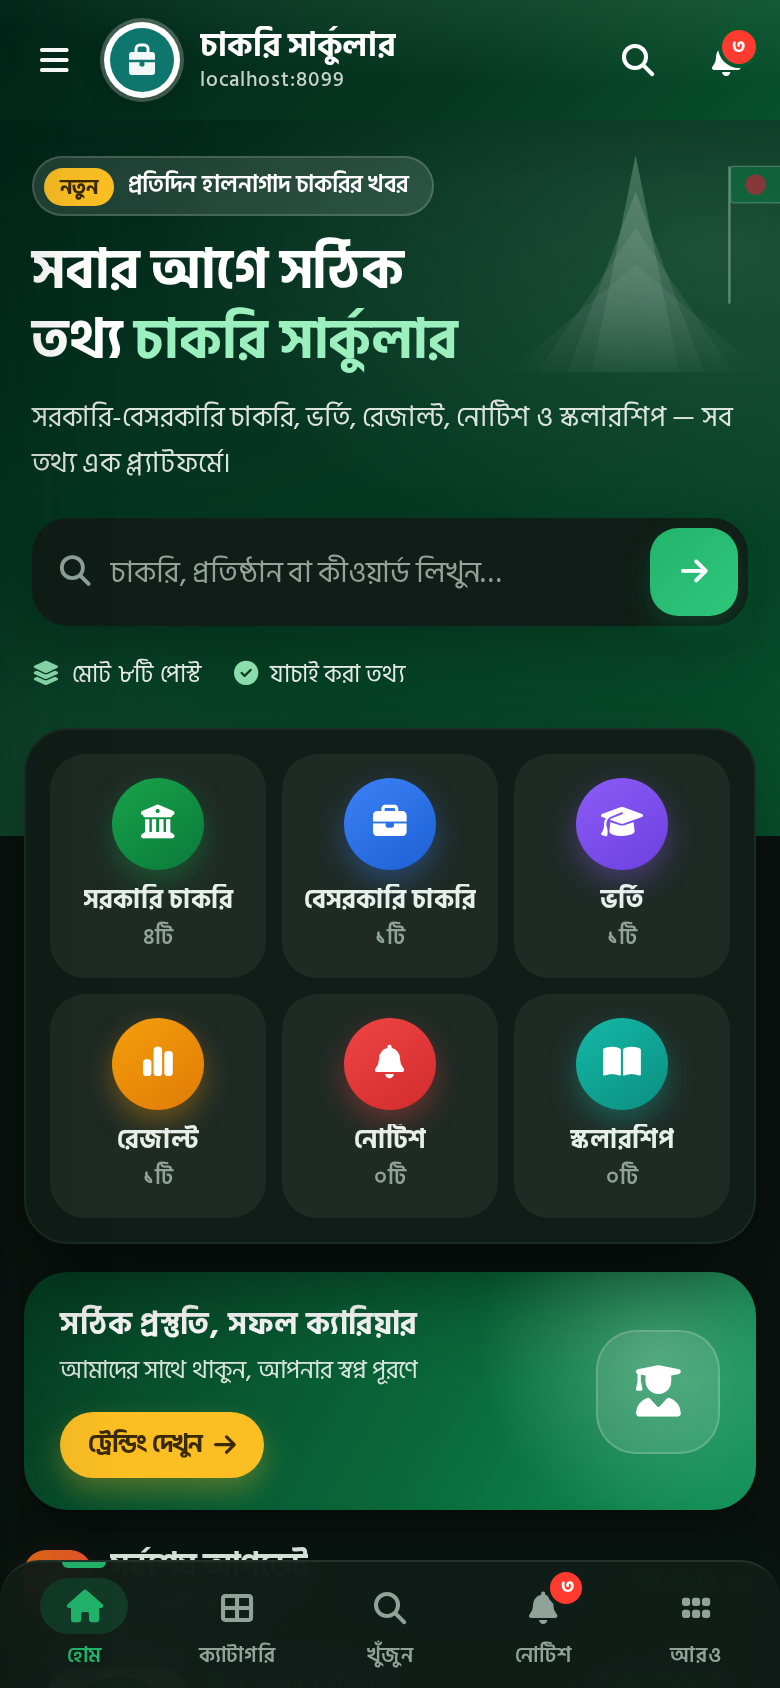
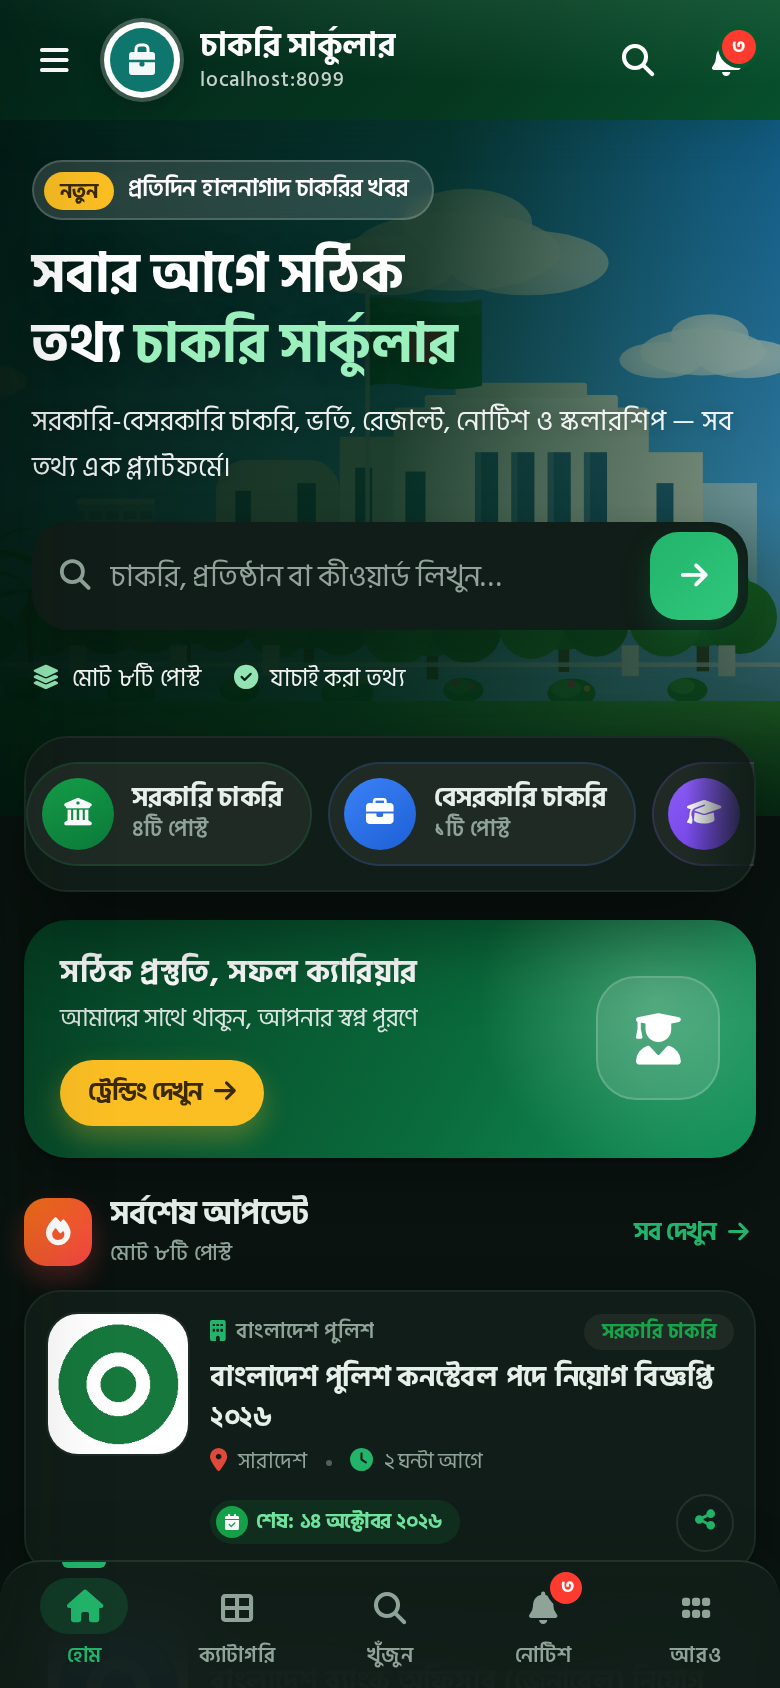
Home: inline SVG hero scene and single-row scrollable categories
Claude-Session: https://claude.ai/code/session_01XkHeWGdGZ5LUqB17QLPmpY

diff --git a/cakricircular/app/pages/home.php b/cakricircular/app/pages/home.php
@@ -33,7 +33,7 @@ if ($page === 1) {
             $catCounts[(int)$cc['cat_id']] = (int)$cc['n'];
     } catch (Throwable $e) {}
 }
-$homeCats = array_slice(categories(), 0, 6);
+$homeCats = categories();
 
 css_once('banner', <<<CSS
 /* ব্যানার — ৮৫৬×২৯২ অনুপাত (২.৯৩:১) */
@@ -55,20 +55,22 @@ css_once('banner', <<<CSS
 CSS);
 
 css_once('home', <<<CSS
-/* ===== হোম হিরো (হেডারের সবুজ রঙ নিচে নেমে আসে) ===== */
-.hh{position:relative;margin:-16px -16px 0;padding:22px 18px 74px;background:var(--hero-grad);color:#fff;overflow:hidden;isolation:isolate}
-.hh::before{content:"";position:absolute;inset:0;z-index:-1;opacity:.55;
-  background:radial-gradient(420px 220px at 92% 18%,rgba(160,240,190,.28),transparent 70%),
-             radial-gradient(300px 200px at -5% 100%,rgba(255,255,255,.10),transparent 70%)}
-.hh-art{position:absolute;right:-14px;top:6px;width:min(44%,220px);z-index:-1;opacity:.5;pointer-events:none}
+/* ===== হোম হিরো — পেছনে ইনলাইন SVG দৃশ্য (আলাদা ছবি লোড হয় না) ===== */
+.hh{position:relative;margin:-16px -16px 0;padding:24px 18px 64px;background:#06592f;color:#fff;overflow:hidden;isolation:isolate}
+.hh-scene{position:absolute;inset:0;width:100%;height:100%;z-index:-2;display:block}
+.hh::before{content:"";position:absolute;inset:0;z-index:-1;
+  background:linear-gradient(100deg,rgba(3,48,26,.94) 0%,rgba(4,64,35,.84) 48%,rgba(6,89,47,.42) 78%,rgba(6,89,47,.18) 100%),
+             linear-gradient(0deg,rgba(3,48,26,.85) 0%,rgba(3,48,26,0) 45%)}
+html[data-theme="dark"] .hh::before{background:linear-gradient(100deg,rgba(2,24,14,.96) 0%,rgba(3,40,22,.88) 50%,rgba(3,50,28,.55) 80%,rgba(3,50,28,.35) 100%),
+             linear-gradient(0deg,rgba(2,24,14,.9) 0%,rgba(2,24,14,0) 45%)}
 .hh-badge{display:inline-flex;align-items:center;gap:7px;padding:4px 12px 4px 5px;border-radius:999px;font-size:.74rem;font-weight:600;
-  background:rgba(255,255,255,.12);border:1px solid rgba(255,255,255,.16);margin-bottom:10px}
+  background:rgba(255,255,255,.14);border:1px solid rgba(255,255,255,.18);margin-bottom:10px;backdrop-filter:blur(4px)}
 .hh-badge b{background:#fbbf24;color:#3b2a00;border-radius:999px;padding:0 8px;font-size:.66rem;line-height:1.8}
-.hh h1{font-size:1.72rem;line-height:1.28;margin:0 0 8px;font-weight:700;letter-spacing:-.6px;max-width:15em;text-wrap:balance}
+.hh h1{font-size:1.72rem;line-height:1.28;margin:0 0 8px;font-weight:700;letter-spacing:-.6px;max-width:15em;text-wrap:balance;text-shadow:0 2px 14px rgba(0,0,0,.25)}
 .hh h1 span{color:#9bf0bd}
-.hh p{margin:0 0 16px;font-size:.88rem;opacity:.86;max-width:28em;line-height:1.65}
-.hh-search{position:relative;display:flex;align-items:center;background:var(--card);border-radius:18px;padding:5px 5px 5px 14px;
-  box-shadow:0 14px 30px rgba(0,0,0,.18);max-width:620px}
+.hh p{margin:0 0 16px;font-size:.88rem;opacity:.92;max-width:28em;line-height:1.65;text-shadow:0 1px 8px rgba(0,0,0,.25)}
+.hh-search{position:relative;display:flex;align-items:center;background:#fff;border-radius:18px;padding:5px 5px 5px 14px;
+  box-shadow:0 14px 30px rgba(0,0,0,.22);max-width:620px}
 html[data-theme="dark"] .hh-search{background:var(--card)}
 .hh-search i.mg{color:var(--muted);font-size:.95rem}
 .hh-search input{flex:1;min-width:0;border:0;background:none;height:44px;padding:0 10px;font:inherit;font-size:.94rem;color:var(--ink)}
@@ -77,19 +79,44 @@ html[data-theme="dark"] .hh-search{background:var(--card)}
 .hh-search button{width:44px;height:44px;border:0;border-radius:14px;flex:none;color:#fff;font-size:.95rem;
   background:linear-gradient(135deg,var(--brand),var(--brand-2));box-shadow:0 6px 14px rgba(10,125,69,.3)}
 .hh-search button:active{transform:scale(.94)}
-.hh-stats{display:flex;gap:16px;margin-top:14px;font-size:.76rem;opacity:.9;flex-wrap:wrap}
+.hh-stats{display:flex;gap:16px;margin-top:14px;font-size:.76rem;opacity:.95;flex-wrap:wrap}
 .hh-stats span{display:inline-flex;align-items:center;gap:6px}
 .hh-stats i{color:#9bf0bd}
 
-/* ক্যাটাগরি গ্রিড — হিরোর ওপর ভেসে থাকা সাদা প্যানেল */
-.cg{position:relative;z-index:2;margin:-56px 0 0;background:var(--card);border:1px solid var(--line-2);border-radius:24px;
-  padding:14px;box-shadow:var(--sh-lg);display:grid;grid-template-columns:repeat(3,1fr);gap:10px}
-.cg a{display:flex;flex-direction:column;align-items:center;gap:7px;text-align:center;padding:12px 4px 10px;border-radius:18px;
-  background:var(--tl);transition:transform .18s,box-shadow .18s;min-width:0}
-.cg a:hover{transform:translateY(-3px);box-shadow:0 10px 22px rgba(10,40,25,.1)}
-.cg a:active{transform:scale(.97)}
-.cg b{font-size:.84rem;font-weight:700;color:var(--ink);line-height:1.3;max-width:100%;overflow:hidden;text-overflow:ellipsis;white-space:nowrap}
-.cg small{font-size:.68rem;color:var(--muted);font-weight:600;margin-top:-5px}
+/* ক্যাটাগরি — এক লাইনে, আঙুলে টেনে সরানো যায় */
+.cg-wrap{position:relative;z-index:2;margin:-40px 0 0;background:var(--card);border:1px solid var(--line-2);border-radius:22px;
+  box-shadow:var(--sh-lg);padding:10px 0}
+.cg{display:flex;gap:8px;overflow-x:auto;scroll-snap-type:x proximity;scrollbar-width:none;padding:2px 12px;
+  -webkit-overflow-scrolling:touch;overscroll-behavior-x:contain}
+.cg::-webkit-scrollbar{display:none}
+.cg a{flex:none;scroll-snap-align:start;display:flex;align-items:center;gap:9px;padding:7px 14px 7px 7px;border-radius:999px;
+  background:var(--tl);border:1px solid color-mix(in srgb,var(--t1) 18%,transparent);transition:transform .18s;min-width:0}
+.cg a:active{transform:scale(.96)}
+.cg .tile-ic{width:36px;height:36px;font-size:.86rem;box-shadow:none}
+.cg b{display:block;font-size:.84rem;font-weight:700;color:var(--ink);line-height:1.25;white-space:nowrap}
+.cg small{display:block;font-size:.68rem;color:var(--muted);font-weight:600;line-height:1.3}
+.cg-wrap::after{content:"";position:absolute;top:0;right:0;bottom:0;width:34px;border-radius:0 22px 22px 0;pointer-events:none;
+  background:linear-gradient(90deg,transparent,var(--card))}
+
+@media(min-width:701px){
+  .hh{margin:0;border-radius:28px;padding:40px 36px 76px;min-height:360px}
+  .hh h1{font-size:2.1rem}
+  .hh p{font-size:.96rem}
+  .cg-wrap{margin:-44px 20px 0}
+  .cg a:hover{transform:translateY(-2px)}
+}
+@media(min-width:1024px){
+  .hh{padding:54px 52px 90px;min-height:430px}
+  .hh h1{font-size:2.6rem}
+  .hh::before{background:linear-gradient(90deg,rgba(3,48,26,.95) 0%,rgba(4,64,35,.82) 38%,rgba(6,89,47,.25) 62%,rgba(6,89,47,0) 80%),
+             linear-gradient(0deg,rgba(3,48,26,.6) 0%,rgba(3,48,26,0) 35%)}
+  .cg-wrap{margin:-50px 40px 0}
+}
+@media(max-width:700px){
+  .hh{margin:-12px -12px 0;padding:20px 16px 58px}
+  .hh-scene{width:auto;min-width:100%;left:auto;right:0}
+}
+@media(max-width:360px){ .hh h1{font-size:1.5rem} }
 
 /* "সঠিক প্রস্তুতি" প্রোমো কার্ড */
 .hp{position:relative;display:flex;align-items:center;gap:14px;margin:14px 0 0;padding:16px 18px;border-radius:22px;overflow:hidden;
@@ -104,25 +131,7 @@ html[data-theme="dark"] .hh-search{background:var(--card)}
 .hp-ic{width:62px;height:62px;flex:none;border-radius:20px;background:rgba(255,255,255,.12);border:1px solid rgba(255,255,255,.18);
   display:grid;place-items:center;font-size:1.6rem}
 
-@media(min-width:701px){
-  .hh{margin:0;border-radius:28px;padding:34px 34px 88px}
-  .hh h1{font-size:2.1rem}
-  .hh p{font-size:.96rem}
-  .cg{margin:-64px 20px 0;grid-template-columns:repeat(6,1fr);padding:16px}
-}
-@media(min-width:1024px){
-  .hh{padding:44px 48px 96px}
-  .hh h1{font-size:2.5rem}
-  .hh-art{width:330px;right:40px;top:auto;bottom:70px;opacity:.85}
-  .cg{margin:-70px 40px 0}
-}
-@media(max-width:700px){
-  .hh{margin:-12px -12px 0;padding:18px 16px 70px}
-  .cg{padding:12px;gap:8px;border-radius:22px;margin-top:-54px}
-  .cg b{font-size:.8rem}
-  .hp b{font-size:.98rem}
-}
-@media(max-width:360px){ .hh h1{font-size:1.5rem} }
+@media(max-width:700px){ .hp b{font-size:.98rem} }
 CSS);
 
 $P = [
@@ -136,20 +145,7 @@ $P = [
 
 <?php if ($page === 1): ?>
 <section class="hh">
-  <svg class="hh-art" viewBox="0 0 300 220" aria-hidden="true">
-    <defs>
-      <linearGradient id="hhA" x1="0" y1="0" x2="0" y2="1"><stop offset="0" stop-color="#bff5d4" stop-opacity=".55"/><stop offset="1" stop-color="#bff5d4" stop-opacity=".05"/></linearGradient>
-      <linearGradient id="hhB" x1="0" y1="0" x2="0" y2="1"><stop offset="0" stop-color="#ffffff" stop-opacity=".35"/><stop offset="1" stop-color="#ffffff" stop-opacity=".04"/></linearGradient>
-    </defs>
-    <!-- স্মৃতিসৌধের আদলে ত্রিভুজ আর পতাকা -->
-    <path d="M150 20 L188 210 L112 210 Z" fill="url(#hhA)"/>
-    <path d="M150 52 L210 210 L90 210 Z" fill="url(#hhB)"/>
-    <path d="M150 84 L236 210 L64 210 Z" fill="url(#hhB)" opacity=".7"/>
-    <path d="M150 116 L262 210 L38 210 Z" fill="url(#hhB)" opacity=".5"/>
-    <line x1="232" y1="30" x2="232" y2="150" stroke="#e8fff1" stroke-opacity=".7" stroke-width="2"/>
-    <rect x="233" y="30" width="52" height="32" rx="3" fill="#0a7d45" stroke="#e8fff1" stroke-opacity=".5"/>
-    <circle cx="255" cy="46" r="9" fill="#f42a41"/>
-  </svg>
+  <?php readfile(APP_ROOT . '/partials/hero_scene.svg'); ?>
   <span class="hh-badge"><b>নতুন</b>প্রতিদিন হালনাগাদ চাকরির খবর</span>
   <h1><?= e(setting('home_hero_title', 'সবার আগে সঠিক তথ্য')) ?> <span><?= e(setting('home_hero_accent', 'চাকরি সার্কুলার')) ?></span></h1>
   <p><?= e(setting('home_hero_sub', 'সরকারি-বেসরকারি চাকরি, ভর্তি, রেজাল্ট, নোটিশ ও স্কলারশিপ — সব তথ্য এক প্ল্যাটফর্মে।')) ?></p>
@@ -165,15 +161,17 @@ $P = [
 </section>
 
 <?php if ($homeCats): ?>
+<div class="cg-wrap">
 <nav class="cg" aria-label="ক্যাটাগরি">
   <?php foreach ($homeCats as $i => $c): ?>
     <a class="tone-<?= ($i % 6) + 1 ?>" href="<?= e(cat_url($c['slug'])) ?>">
       <span class="tile-ic"><i class="fa <?= e($c['icon'] ?: 'fa-folder') ?>"></i></span>
-      <b><?= e($c['name']) ?></b>
-      <small><?= bn($catCounts[(int)$c['id']] ?? 0) ?>টি</small>
+      <span><b><?= e($c['name']) ?></b><small><?= bn($catCounts[(int)$c['id']] ?? 0) ?>টি পোস্ট</small></span>
     </a>
   <?php endforeach; ?>
+  <a class="tone-2" href="<?= e(url('categories')) ?>"><span class="tile-ic"><i class="fa fa-grip"></i></span><span><b>সব ক্যাটাগরি</b><small>দেখুন</small></span></a>
 </nav>
+</div>
 <?php endif; ?>
 <?php endif; ?>
 
